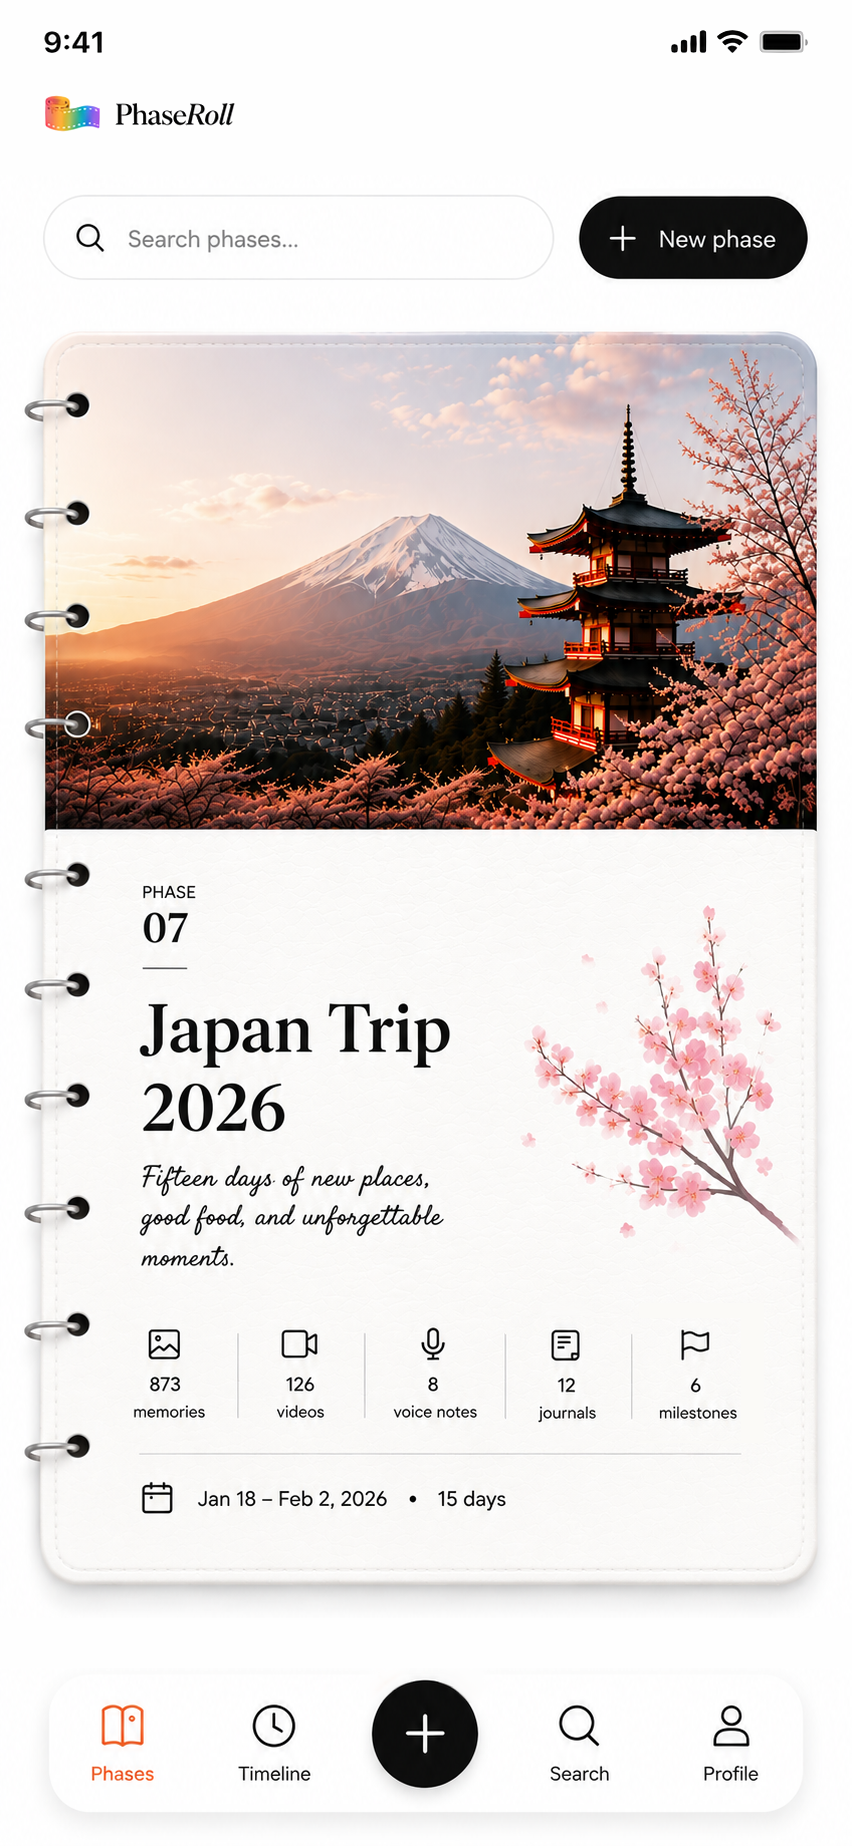
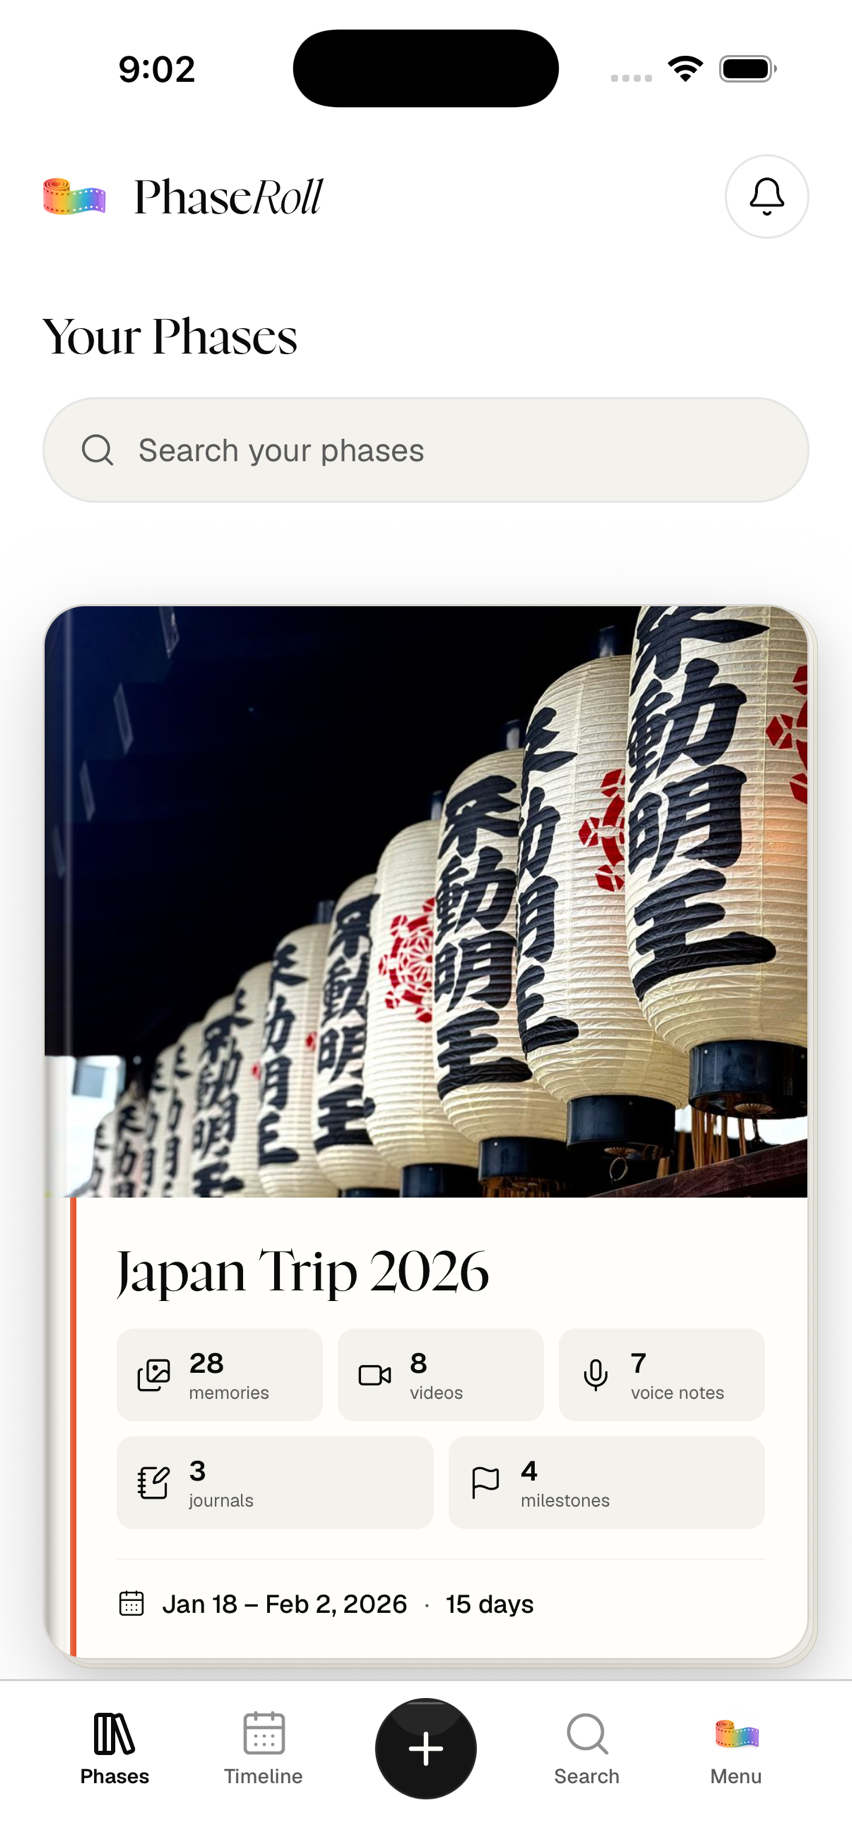
changes

diff --git a/app/globals.css b/app/globals.css
@@ -685,114 +685,90 @@ a:hover {
   transform: rotate(1deg);
 }
 
-.phase-album {
+.phase-book {
   position: relative;
   width: min(88%, 22rem);
   margin-inline: auto;
-  padding-left: 1.25rem;
   filter: drop-shadow(0 1.5rem 1.4rem rgb(10 10 10 / 0.16));
-  transform: rotate(1.5deg);
+  transform: rotate(1deg);
 }
 
-.phase-album::before {
+.phase-book::before {
   content: "";
   position: absolute;
-  z-index: -1;
-  inset: -0.45rem -0.45rem 0.4rem 1.65rem;
-  border: 1px solid #dedbd4;
-  border-radius: 0.4rem 1rem 1rem 0.4rem;
-  background: #f4f2ec;
-  box-shadow: 0.2rem 0.25rem 0 rgb(10 10 10 / 0.06);
+  z-index: 2;
+  inset: 0 auto 0 0;
+  width: 0.4rem;
+  border-radius: 0.35rem 0 0 0.35rem;
+  background: linear-gradient(90deg, #4e2f1f, #83553a 70%, #b38461);
+  box-shadow: inset -0.15rem 0 0 rgb(255 255 255 / 0.14);
 }
 
-.phase-album__rings {
-  position: absolute;
-  z-index: 3;
-  inset: 0 auto 0 0.475rem;
-  display: flex;
-  flex-direction: column;
-  justify-content: space-around;
-  padding-block: 0.85rem;
-}
-
-.phase-album__ring {
+.phase-book__page {
   position: relative;
-  display: block;
-  width: 1.55rem;
-  height: 0.5rem;
-  border: 1.5px solid #777775;
-  border-radius: 999px;
-  background: transparent;
-  filter: drop-shadow(0 1px 0.6px rgb(10 10 10 / 0.28));
-}
-
-.phase-album__ring::after {
-  content: "";
-  position: absolute;
-  top: 50%;
-  right: -0.21rem;
-  width: 0.42rem;
-  height: 0.42rem;
-  border-radius: 50%;
-  background: #171717;
-  box-shadow: 0 1px 1px rgb(10 10 10 / 0.25);
-  transform: translateY(-50%);
-}
-
-.phase-album__cover {
+  z-index: 1;
   display: grid;
-  grid-template-rows: minmax(0, 1fr) auto;
+  grid-template-rows: auto minmax(0, 1fr) auto;
   aspect-ratio: 3 / 4.15;
   overflow: hidden;
-  border: 1px solid #d8d4cc;
-  border-radius: 0.35rem 1rem 1rem 0.35rem;
-  background: #fbfaf6;
-  box-shadow: inset 0 0 0 0.35rem rgb(255 255 255 / 0.45);
+  margin-left: 0.3rem;
+  padding: clamp(0.75rem, 2.5vw, 1.1rem);
+  border: 1px solid #d9d1be;
+  border-radius: 0.35rem 0.9rem 0.9rem 0.35rem;
+  background:
+    radial-gradient(circle at 4px 4px, rgb(132 85 58 / 0.09) 1px, transparent 1.2px)
+      0 0 / 26px 26px,
+    #fffdf6;
+  box-shadow:
+    inset 0.5rem 0 0.8rem rgb(47 26 14 / 0.08),
+    inset 0 0 0 0.25rem rgb(255 255 255 / 0.5);
 }
 
-.phase-album__image {
-  position: relative;
-  overflow: hidden;
-  background: var(--whisper);
-}
-
-.phase-album__image img {
-  object-fit: cover;
-  object-position: center;
-}
-
-.phase-album__image::after {
-  content: "";
-  position: absolute;
-  inset: 0;
-  background: linear-gradient(180deg, transparent 55%, rgb(0 0 0 / 0.34));
-}
-
-.phase-album__image > span {
-  position: absolute;
-  z-index: 1;
-  right: 1rem;
-  bottom: 0.75rem;
-  color: var(--paper);
-  font-size: 0.65rem;
+.phase-book__eyebrow {
+  display: flex;
+  justify-content: space-between;
+  padding-bottom: 0.65rem;
+  color: #83553a;
+  font-size: 0.6rem;
   font-weight: 600;
   letter-spacing: 0.12em;
   text-transform: uppercase;
 }
 
-.phase-album__details {
-  padding: clamp(1rem, 3vw, 1.5rem);
-  text-align: right;
+.phase-book__image {
+  position: relative;
+  overflow: hidden;
+  border: 1px solid rgb(131 85 58 / 0.24);
+  border-radius: 0.2rem;
+  background: var(--whisper);
 }
 
-.phase-album__details p {
+.phase-book__image img {
+  object-fit: cover;
+  object-position: center;
+  filter: saturate(0.88) contrast(0.96);
+}
+
+.phase-book__image::after {
+  content: "";
+  position: absolute;
+  inset: 0;
+  box-shadow: inset 0 0 1.5rem rgb(47 26 14 / 0.12);
+}
+
+.phase-book__details {
+  padding: clamp(0.85rem, 2.5vw, 1.25rem) 0.25rem 0.15rem;
+  text-align: left;
+}
+
+.phase-book__details p {
   font-family: var(--display);
   font-size: clamp(1.5rem, 4vw, 2.25rem);
   line-height: 1;
   white-space: nowrap;
 }
 
-.phase-album__details span {
+.phase-book__details span {
   display: block;
   margin-top: 0.65rem;
   color: var(--mute);
@@ -846,8 +822,8 @@ a:hover {
 }
 
 @media (max-width: 639px) {
-  .phase-album {
-    transform: translateX(-0.25rem) rotate(1.5deg);
+  .phase-book {
+    transform: translateX(-0.25rem) rotate(1deg);
   }
 }
 
@@ -880,7 +856,7 @@ a:hover {
   }
 
   .polaroid,
-  .phase-album {
+  .phase-book {
     align-self: center;
   }
 }
@@ -1980,7 +1956,6 @@ a:hover {
 .phone--image {
   --phone-bezel: 0.1875rem;
   --phone-radius: 2.5rem;
-  --screen-inset: 0.375rem;
   position: relative;
   padding: var(--phone-bezel);
   border-radius: var(--phone-radius);
@@ -2003,10 +1978,8 @@ a:hover {
 }
 
 .phone--image .phone__media {
-  padding: var(--screen-inset);
   overflow: hidden;
   border-radius: calc(var(--phone-radius) - var(--phone-bezel));
-  background: var(--paper);
 }
 
 .phone--blank .phone__media {
@@ -2017,9 +1990,7 @@ a:hover {
   display: block;
   width: 100%;
   height: auto;
-  border-radius: calc(
-    var(--phone-radius) - var(--phone-bezel) - var(--screen-inset)
-  );
+  border-radius: calc(var(--phone-radius) - var(--phone-bezel));
 }
 
 /* An unexposed frame, not a broken image. */
@@ -2068,8 +2039,7 @@ a:hover {
 }
 
 .mockups .phone--image .phone__img {
-  object-fit: contain;
-  object-position: top center;
+  object-fit: cover;
 }
 
 @media (min-width: 1024px) {

diff --git a/app/page.tsx b/app/page.tsx
@@ -21,15 +21,15 @@ const MOCKUPS = [
   },
   {
     src: "/film_signature.png",
-    alt: "Camera screen with film stock selector",
-    caption: "02 — Camera styles",
-    slot: "Slot 02 — camera styles",
+    alt: "PhaseRoll New memory capture screen",
+    caption: "02 — Memory capture",
+    slot: "Slot 02 — memory capture",
   },
   {
-    src: "/timeline.png",
-    alt: "Day view showing multiple Phases with photos, videos, and personal notes",
-    caption: "03 — Timeline",
-    slot: "Slot 03 — timeline",
+    src: "/phase_diary.png",
+    alt: "Phase diary page showing four memories from a day",
+    caption: "03 — Phase diary",
+    slot: "Slot 03 — phase diary",
   },
 ];
 
@@ -57,7 +57,7 @@ export default async function Home() {
       "Behind the Memory prompts for photos and videos",
       "Text or voice stories attached to media",
       "Pro journal entries and milestones",
-      "Future Capsules",
+      "Future Capsules (coming soon)",
       "Phase Memory Books",
       "Shared event albums with Roll Call",
     ],
@@ -179,14 +179,13 @@ export default async function Home() {
                   <span>VS</span>
                 </div>
                 <article className="difference-card difference-card--phase">
-                  <div className="phase-album" aria-hidden="true">
-                    <div className="phase-album__rings">
-                      {Array.from({ length: 10 }, (_, index) => (
-                        <span key={index} className="phase-album__ring" />
-                      ))}
-                    </div>
-                    <div className="phase-album__cover">
-                      <div className="phase-album__image">
+                  <div className="phase-book" aria-hidden="true">
+                    <div className="phase-book__page">
+                      <div className="phase-book__eyebrow">
+                        <span>Phase I</span>
+                        <span>Contents</span>
+                      </div>
+                      <div className="phase-book__image">
                         <Image
                           src="/fuji_album.jpg"
                           alt=""
@@ -194,7 +193,7 @@ export default async function Home() {
                           sizes="(min-width: 640px) 30rem, 88vw"
                         />
                       </div>
-                      <div className="phase-album__details">
+                      <div className="phase-book__details">
                         <p>Japan Trip 2026</p>
                         <span>873 memories · 12 journals · 6 milestones</span>
                       </div>
@@ -214,7 +213,10 @@ export default async function Home() {
                       </p>
                       <p className="difference-tier">
                         <strong>Pro</strong>
-                        <span>journals, milestones, and richer ways to preserve a Phase</span>
+                        <span>
+                          journals, milestones, and richer ways to preserve a
+                          Phase
+                        </span>
                       </p>
                     </div>
                   </div>

diff --git a/app/components/Pricing.tsx b/app/components/Pricing.tsx
@@ -28,11 +28,12 @@ function proFeatures(memoryBookPrice: string): Feature[] {
     name: "Nostalgic Camera Styles",
     description: "Dad's Camcorder, Kodak Gold, and Disposable",
   },
-  { name: "Five Phase Recaps each month" },
+  { name: "Five Phase Recaps each month", comingSoon: true },
   {
     name: "Future Capsules",
     description:
       "Schedule letters, videos, and voice recordings to open on a meaningful future date. Can be sent to yourself or a loved one.",
+    comingSoon: true,
   },
   {
     name: "Shared Phases",
@@ -121,8 +122,8 @@ export function Pricing({ market }: PricingProps) {
           </h2>
           <p className="body measure-52">
             Photos, videos, and the stories behind them are free. Go Pro for
-            nostalgic Camera Styles, journals, milestones, Phase Recaps, and
-            richer ways to preserve a Phase.
+            nostalgic Camera Styles, journals, milestones, and richer ways to
+            preserve a Phase.
           </p>
         </div>
 

diff --git a/app/pricing.ts b/app/pricing.ts
@@ -1,5 +1,7 @@
 export type PricingMarket = "global" | "india";
 
+const SHOW_INR_PRICING = false;
+
 export const MARKET_PRICING = {
   global: {
     free: "$0",
@@ -24,5 +26,8 @@ export const MARKET_PRICING = {
 export function pricingMarketForCountry(
   countryCode: string | null,
 ): PricingMarket {
-  return countryCode?.toUpperCase() === "IN" ? "india" : "global";
+  // Keep the regional catalog ready while public pricing is temporarily USD-only.
+  return SHOW_INR_PRICING && countryCode?.toUpperCase() === "IN"
+    ? "india"
+    : "global";
 }

diff --git a/app/components/FilmStrip.tsx b/app/components/FilmStrip.tsx
@@ -16,8 +16,8 @@ const FRAMES = [
   },
   {
     tier: "Pro",
-    title: "Guided journals",
-    copy: "At day’s end, share what stayed with you. A gentle question or two draws out the details and shapes them into a personal journal entry.",
+    title: "Journals & milestones",
+    copy: "Reflect on what stayed with you in a personal journal, and mark the milestones that shaped each Phase along the way.",
   },
 ];
 

diff --git a/app/sitemap.ts b/app/sitemap.ts
@@ -11,7 +11,7 @@ export default function sitemap(): MetadataRoute.Sitemap {
       images: [
         `${SITE_URL}/japan_trip_phase_view.png`,
         `${SITE_URL}/film_signature.png`,
-        `${SITE_URL}/timeline.png`,
+        `${SITE_URL}/phase_diary.png`,
       ],
     },
   ];
